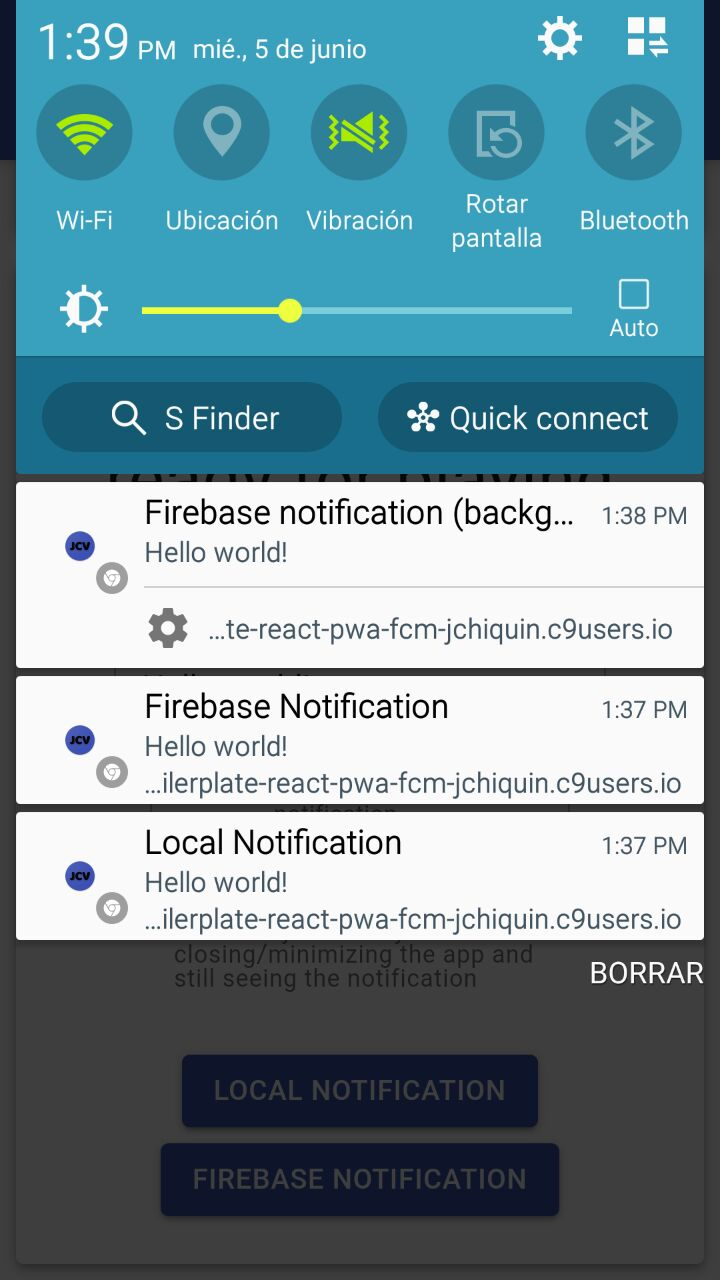
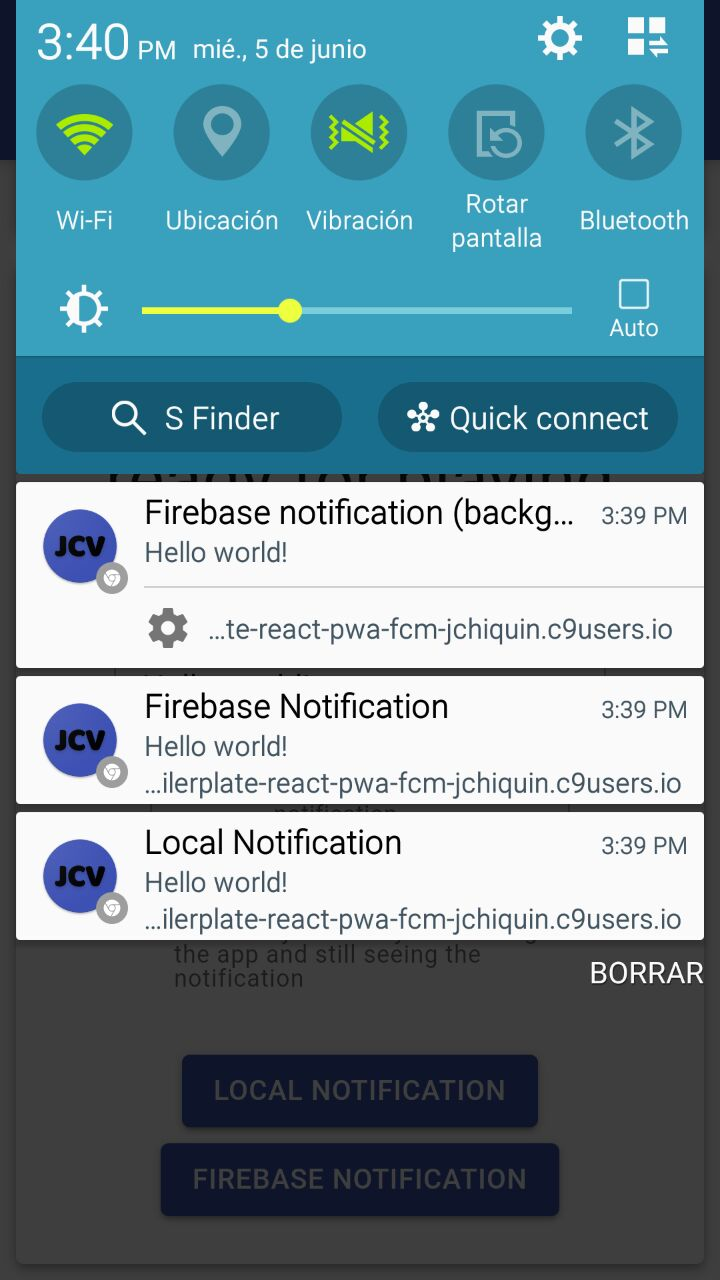
Fixing some things

diff --git a/src/components/Notification.js b/src/components/Notification.js
@@ -42,7 +42,7 @@ class Notification extends React.Component {
             "notification": {
           		"title": "Firebase notification (background - clickable)",
           		"body": this.state.body,
-          		"icon": "icons/48.png",
+          		"icon": "icons/192.png",
           		"click_action": "./action"
           	},
           	"time_to_live": 2419200,
@@ -61,8 +61,8 @@ class Notification extends React.Component {
         navigator.serviceWorker.getRegistration().then((reg) => {
           var options = {
             body: this.state.body,
-            icon: "icons/48.png",
-            vibrate: [100, 50, 100],
+            icon: "icons/192.png",
+            vibrate: [150,150,150,150,75,75,150,150,150,150,450],
             data: {
               dateOfArrival: Date.now(),
               primaryKey: 1

diff --git a/src/push-notification.js b/src/push-notification.js
@@ -11,7 +11,7 @@ export const initializeFirebase = () => {
     appId: "1:138477924028:web:7d2262f03c8bdd71"
   });
   const messaging = firebase.messaging();
-  messaging.onMessage(payload => {
+  messaging.onMessage(payload => { //For showing firebase notification in app (not background)
     navigator.serviceWorker.getRegistration().then((reg) => {
       reg.showNotification('Firebase Notification', payload.notification);
     })
